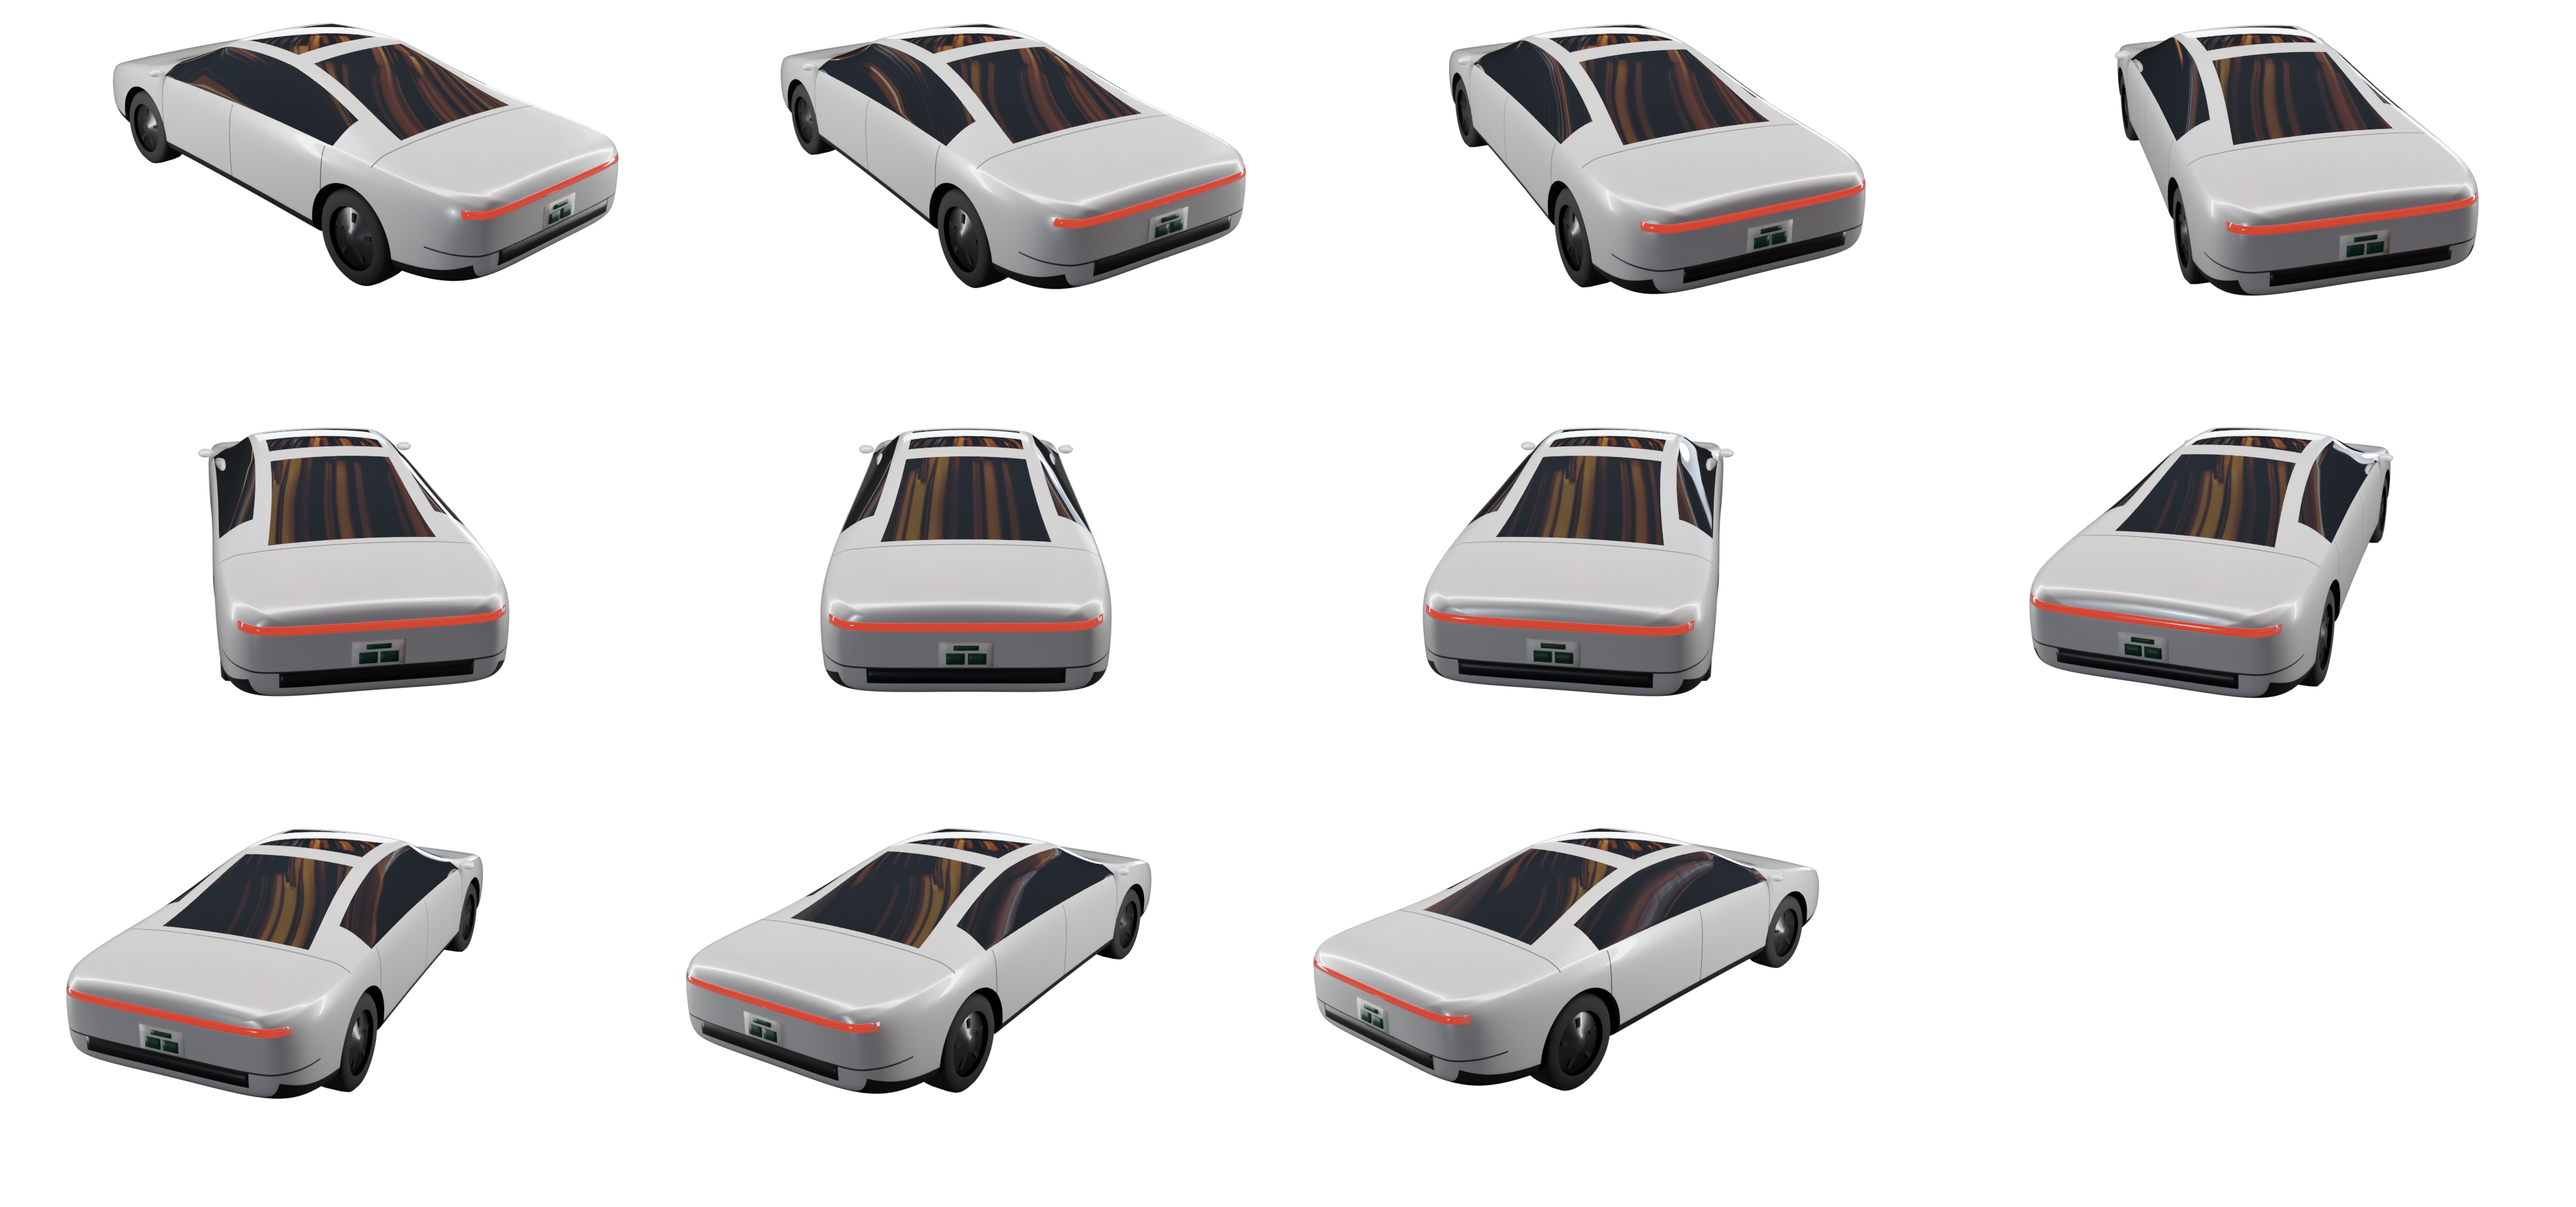
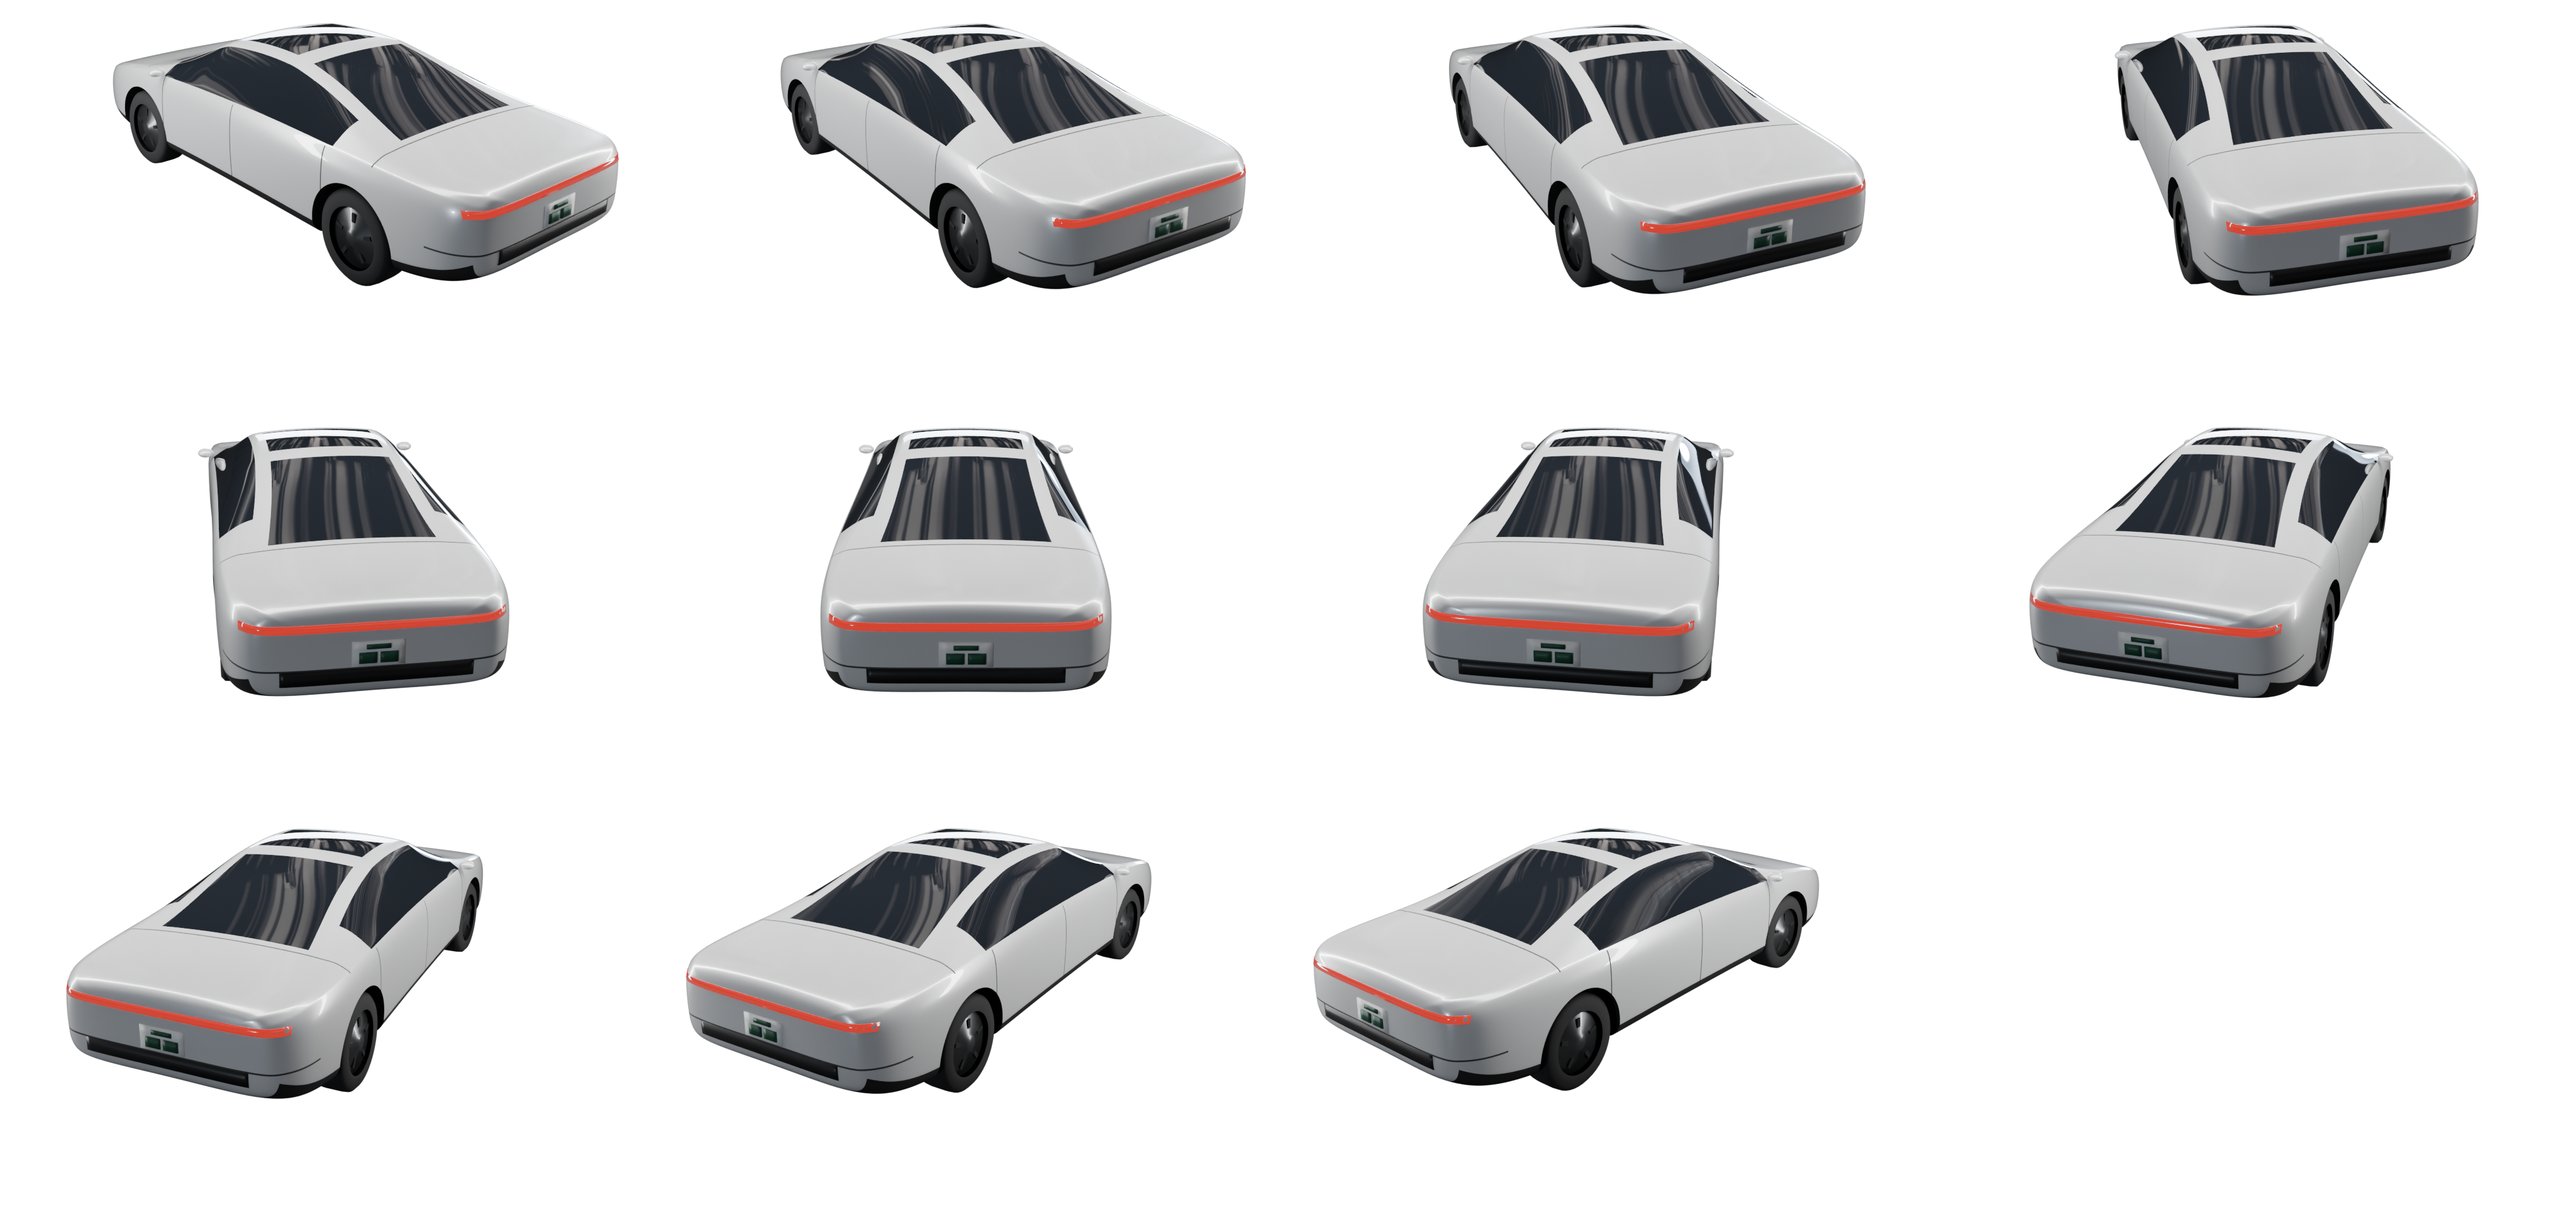
TeslaAdas: car images from the third cloud run (neutral glass reflections), goldens and handover shots

diff --git a/assets/clusters/tesla_adas/ASSETS.md b/assets/clusters/tesla_adas/ASSETS.md
@@ -1,6 +1,6 @@
 # TeslaAdas assets
 
-These files are built by `cargo run --release -p asset-forge -- --lane cloud build --set tesla_adas` from `tools/asset-forge/src/recipes/tesla_adas.rs`. Don't edit them by hand: change the recipe and rebuild. The committed set is two runs on the cloud lane's RTX 4090: `tunnel_lights.png` from the first (28 Nov 2026, 04:55 to 05:04 UTC), the seven car images from the second (28 Nov 2026, about 05:55 to 06:04 UTC, jobs `ego`, `parked` and `traffic` after the shut lines were added).
+These files are built by `cargo run --release -p asset-forge -- --lane cloud build --set tesla_adas` from `tools/asset-forge/src/recipes/tesla_adas.rs`. Don't edit them by hand: change the recipe and rebuild. The committed set is two runs on the cloud lane's RTX 4090: `tunnel_lights.png` from the first (28 Nov 2026, 04:55 to 05:04 UTC), the seven car images from the third (28 Nov 2026, about 06:22 to 06:31 UTC, jobs `ego`, `parked` and `traffic` with the shut lines and the light card at saturation 0.15). The second run (05:55 to 06:04 UTC, the shut lines with the card's full orange) was replaced after the closing cold review read its orange glass streaks as wood grain.
 
 The ledger rows are also in `assets/ASSETS.md`. The dash draws a plain fallback for each image, used when `setup.assets` is `None` or the file is missing.
 
@@ -13,7 +13,7 @@ Blender's camera is right-handed and the kit's isn't, so every Blender render is
 | `ego_brake.png` | Blender 5.3 (64 spp) | The same shots at half size. Only the tail bar is emissive, with its spill on the bumper and the road. Luminance becomes alpha, gamma 0.8. | 2048 × 960 | The brake light, added in warning red while braking | A red bar on the drawn body |
 | `ego_parked.png` | Blender 5.3 (Cycles 256 spp) | The same car from the front left through a 64 mm lens, with a strip light over the centre line and one on each side, running lights on. | 2048 × 1152 | The parked view: the car alone while it stands still | The drawn body block |
 | `traffic_sedan.png`, `traffic_sport.png`, `traffic_kei.png` | Blender 5.3 (Cycles 96 spp) | `tesla_adas::CAR_LIB` + `SHOTS`, seed 152, in grey paint. The sedan and the sport body are fastbacks (the sport one with a taller ducktail); the kei is a one-box 3.40 × 1.48 × 1.78 m with upright corner lamps and a yellow plate. Rows are view elevations 3 / 6 / 10 / 16°; columns are headings relative to the view ray, 0..40° in steps of 10 (mirrored live for negative angles). Cells are 336 × 232 at 64 px/m, anchored at (0.5, 0.70). | 1680 × 928 each | The seeded ambient traffic, picked by each car's elevation and heading on screen | A grey block |
-| `tunnel_lights.png` | ComfyUI (SDXL base 1.0 + 4x-UltraSharp, dpmpp_2m karras, 32 steps, cfg 6.5, 1536 × 640) | Seed 6006, prompt `NIGHT_PROMPT` and negative `NIGHT_NEGATIVE` in the recipe. The prompt asks for a flat view of the ceiling; SDXL drew the tunnel in one-point perspective instead: rows of orange sodium tubes running to a vanishing point low in the frame, lit wall panels and a white service doorway on the left. Post: the 6144 × 2560 upscale at 4096 × 1706, its median luminance taken to black and its 99.9th percentile to full, each pixel keeping its hue, so the lamps, the doorway and the lit walls are left and the dark ceiling and road are gone. | 4096 × 1706 | A build input, not loaded by the dash: every lit car shot hangs it 6 m over the road as a light card (long side along the road, emission × 2.5). It is what the glass roofs and rear windows reflect (the orange streaks in every car image) and it warms the paint. | The cars are lit by the studio alone |
+| `tunnel_lights.png` | ComfyUI (SDXL base 1.0 + 4x-UltraSharp, dpmpp_2m karras, 32 steps, cfg 6.5, 1536 × 640) | Seed 6006, prompt `NIGHT_PROMPT` and negative `NIGHT_NEGATIVE` in the recipe. The prompt asks for a flat view of the ceiling; SDXL drew the tunnel in one-point perspective instead: rows of orange sodium tubes running to a vanishing point low in the frame, lit wall panels and a white service doorway on the left. Post: the 6144 × 2560 upscale at 4096 × 1706, its median luminance taken to black and its 99.9th percentile to full, each pixel keeping its hue, so the lamps, the doorway and the lit walls are left and the dark ceiling and road are gone. | 4096 × 1706 | A build input, not loaded by the dash: every lit car shot hangs it 6 m over the road as a light card (long side along the road, emission × 2.5, saturation × 0.15). It is what the glass roofs and rear windows reflect: soft grey and white streaks, with the sodium orange taken out. | The cars are lit by the studio alone |
 | `NotoSansJP-Medium-subset.ttf` | fontTools 4.69 | See "The Japanese label face" below. | 160,696 bytes, 700 glyphs | The Japanese line of each two-language label and the road text | The kit's embedded Noto Sans (the Japanese line is then left out) |
 | `NotoSansJP-OFL.txt` | — | The font's licence, copied from the same commit. | — | — | — |
 
@@ -37,7 +37,8 @@ Copied from the build's scratch folders after the cloud run (the run was started
 | `tesla_adas_ego/` | `beauty_0.png` to `beauty_10.png`, `glow_0.exr` to `glow_10.exr`, `brake_0.exr` to `brake_10.exr` | The 11 yaw renders of the ego car, one per atlas cell, and the linear glow and brake passes. Masters of `ego.png`, `ego_glow.png`, `ego_brake.png`. |
 | `tesla_adas_parked/` | `parked.png` | The parked view as Blender wrote it, before the recipe's post. Master of `ego_parked.png`. |
 | `tesla_adas_traffic/` | `sedan_<e>_<h>.png`, `sport_<e>_<h>.png`, `kei_<e>_<h>.png` (elevation 0 to 3, heading 0 to 4; 60 files) | One render per atlas cell. Masters of the three traffic atlases. |
-| `runtime/`, `runtime_v3/` | the runtime PNGs of each run | Byte-identical copies of the runtime files (the route the cloud thread used to fetch them); `runtime_v3/` holds the seven car images committed now. |
+| `runtime/`, `runtime_v3/`, `runtime_v4/` | the runtime PNGs of each run | Byte-identical copies of the runtime files (the route the cloud thread used to fetch them); `runtime_v4/` holds the seven car images committed now. |
+| `goldens_v4/`, `renders_v4/` | the dash's eight goldens and two 4K renders | Made on the PC's card from the `runtime_v4` images (the golden test passes there). |
 | `boards/` | `cockpit_1_idle.png` to `hood_4_drift-braking.png` (8 files) | The Penpot boards of page `07 · TeslaAdas`, exported at 3840 × 2160. |
 | `before/` | the old build's review set | The dash on `main` before this rebuild (`preview-export --cluster TeslaAdas` at the start of the thread). |
 
@@ -45,13 +46,13 @@ SHA-256 of the runtime files as committed:
 
 | File | SHA-256 |
 |---|---|
[15 lines of base64/hex data omitted]
 
 ## The Japanese label face
